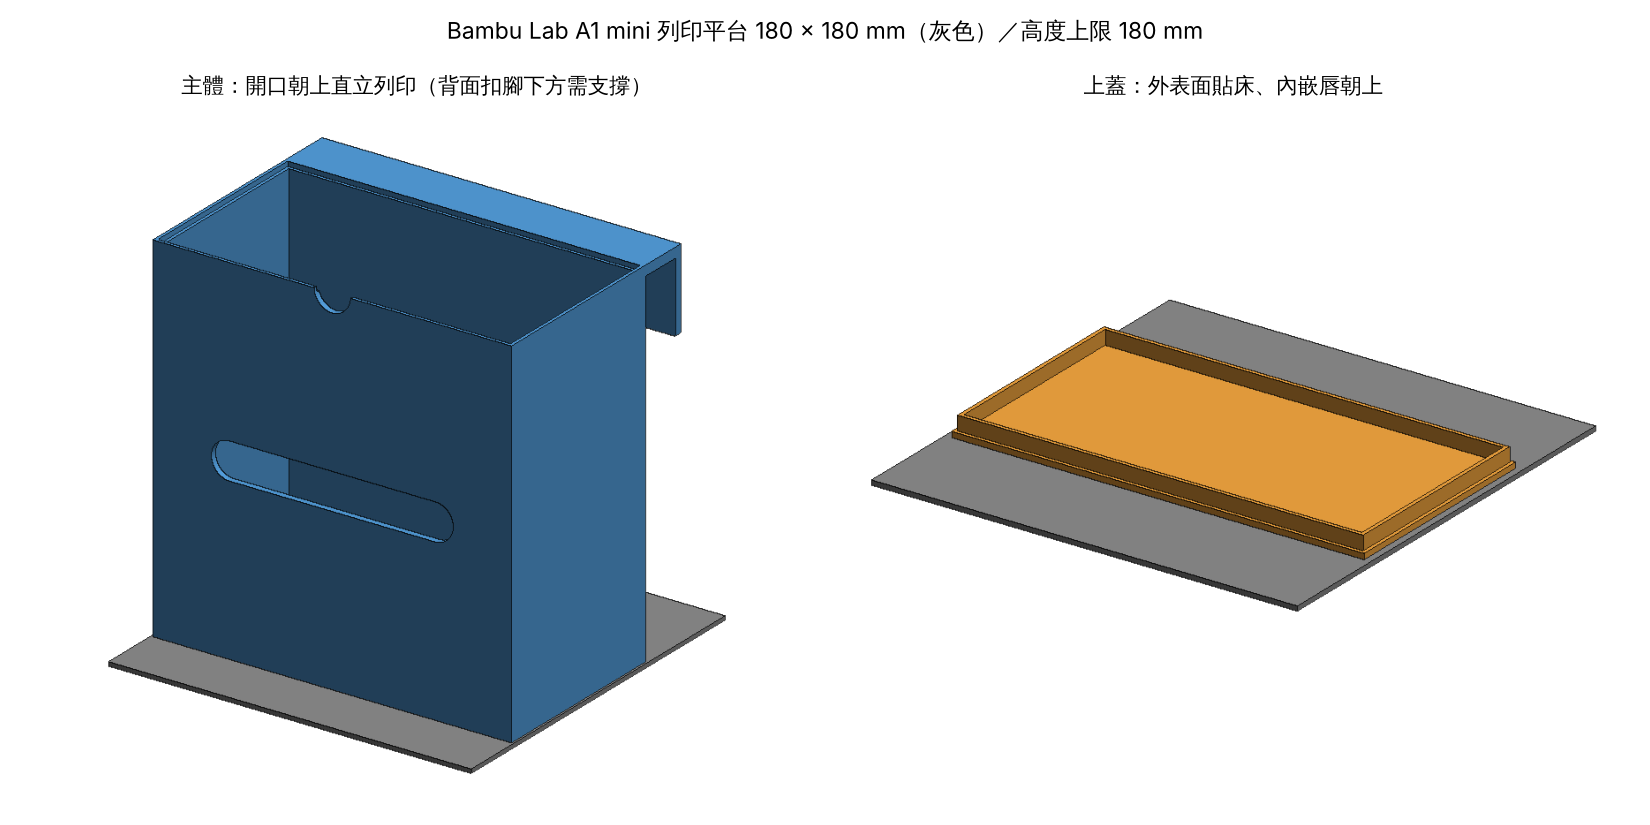
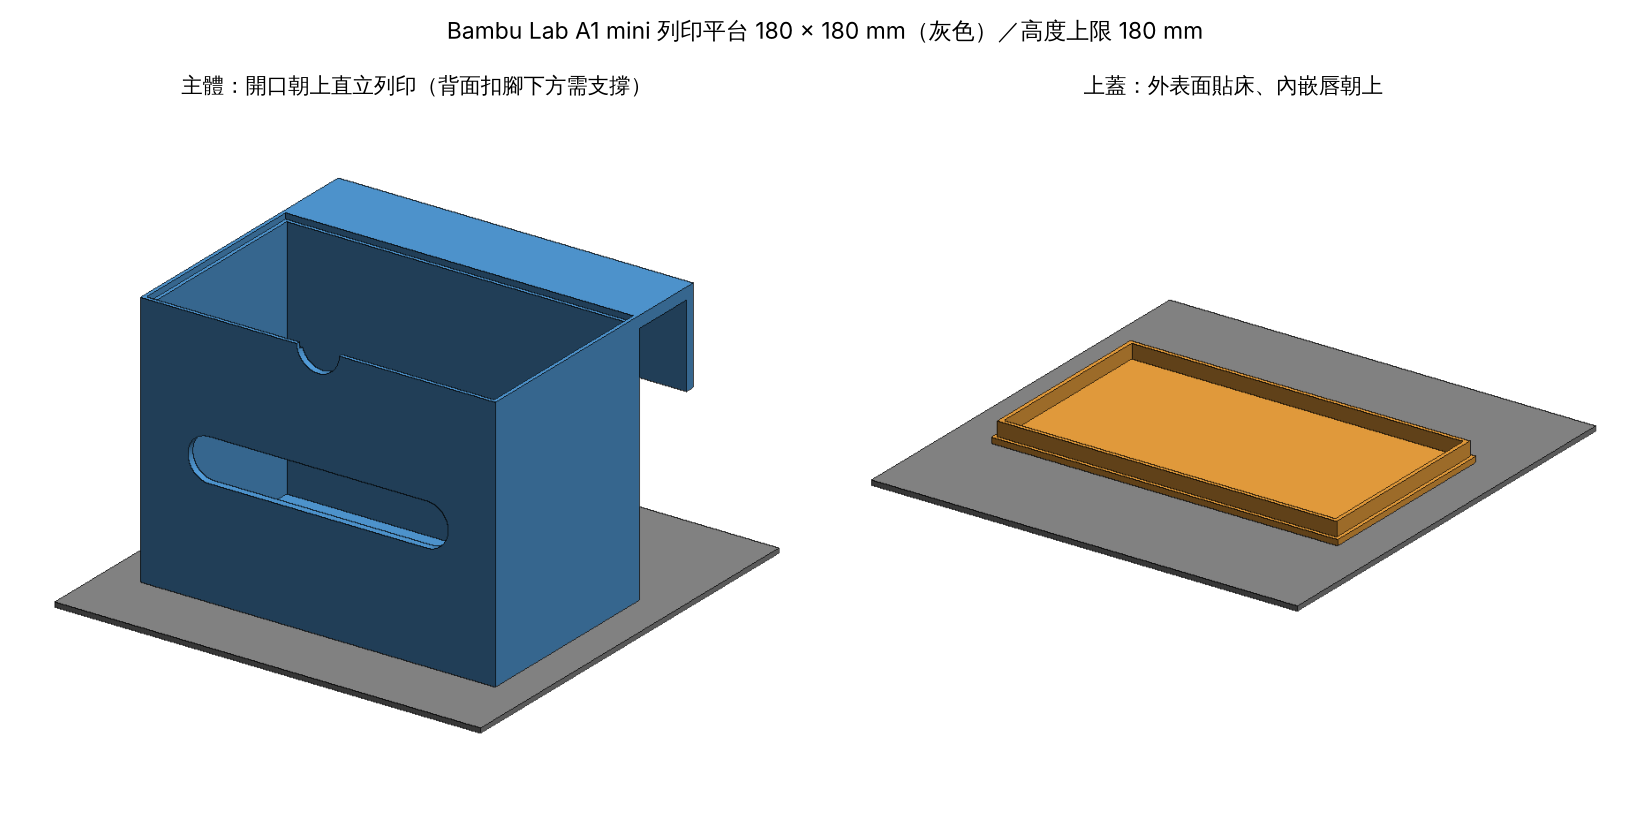
Size tissue box to measured tissue pack and 27.4 mm headboard
Box dimensions are now derived from the tissue pack (140 x 100 x 77 mm)
plus clearance; headboard slot is 28.4 mm.

Claude-Session: https://claude.ai/code/session_012FbViPA8fkn2R78cNFpsQg

Changed region(s): [[0.0309, 0.1515, 0.4636, 0.9394], [0.5564, 0.3939, 0.9273, 0.697], [0.1855, 0.4242, 0.2473, 0.4545]]

diff --git a/tissue_box/render.py b/tissue_box/render.py
@@ -51,31 +51,31 @@ z_top_cav = tb.H - tb.LID_T
 ax.add_patch(Rectangle((tb.WALL, tb.FLOOR), tb.DB - 2 * tb.WALL, z_top_cav - tb.FLOOR, fc="white", ec="k"))
 ax.add_patch(Rectangle((tb.WALL - tb.LEDGE, z_top_cav), tb.DB - 2 * (tb.WALL - tb.LEDGE), tb.LID_T, fc=LID_C, ec="k"))
 ax.add_patch(Rectangle((by0, -70), tb.BOARD_T, zt + 70, fc=BOARD_C, ec="k", alpha=0.85))
-ax.text(by0 + tb.BOARD_T / 2, 60, f"床頭板 {tb.BOARD_T:.0f} mm", ha="center", va="center", color="white", fontsize=11, rotation=90)
-ax.add_patch(Rectangle((tb.WALL + 1, tb.FLOOR + 3), 60, z_top_cav - tb.FLOOR - 8, fc="#f4f1e8", ec="#999", hatch="||"))
-ax.text(tb.WALL + 31, 120, "衛生紙\n(直立)", ha="center", va="center", fontsize=11)
+ax.text(by0 + tb.BOARD_T / 2, -20, f"床頭板 {tb.BOARD_T:.1f} mm", ha="center", va="center", color="white", fontsize=11, rotation=90)
+ax.add_patch(Rectangle((tb.WALL + tb.TISSUE_CLR / 2, tb.FLOOR), tb.TISSUE_H, tb.TISSUE_W, fc="#f4f1e8", ec="#999", hatch="||"))
+ax.text(tb.WALL + tb.TISSUE_CLR / 2 + tb.TISSUE_H / 2, tb.FLOOR + tb.TISSUE_W * 0.75, f"衛生紙(直立)\n{tb.TISSUE_L:.0f}×{tb.TISSUE_W:.0f}×{tb.TISSUE_H:.0f}", ha="center", va="center", fontsize=10, bbox=dict(fc="white", ec="none", alpha=0.8))
 zc = tb.SLOT_Z if tb.SLOT_Z is not None else (tb.FLOOR + z_top_cav) / 2
 ax.add_patch(Rectangle((-0.5, zc - tb.SLOT_W / 2), tb.WALL + 1, tb.SLOT_W, fc="red", ec="red"))
 ax.add_patch(FancyArrowPatch((5, zc), (-70, zc), arrowstyle="-|>", mutation_scale=25, color="red", lw=2.5))
-ax.text(-45, zc + 12, "抽取方向\n(朝床, 與床頭板垂直)", ha="center", color="red", fontsize=11)
+ax.text(-38, zc + 8, "抽取方向\n(朝床, 與床頭板垂直)", ha="center", color="red", fontsize=11)
 ax.axhline(zt, color="gray", ls=":", lw=1)
 ax.text(tb.D_TOTAL + 8, zt - 3, "床頭板頂端", va="top", fontsize=10, color="gray")
 ax.annotate("", (tb.D_TOTAL + 5, zt), (tb.D_TOTAL + 5, tb.H), arrowprops=dict(arrowstyle="<->", color="purple"))
 ax.text(tb.D_TOTAL + 8, tb.H + 2, f"只高出 {tb.TOP_T:.0f} mm", color="purple", fontsize=11)
-ax.annotate("", (-15, 0), (-15, zt), arrowprops=dict(arrowstyle="<->"))
-ax.text(-18, zt / 2 - 30, f"收納空間全在床頭板頂端以下\n盒高 {tb.H:.0f}（低於頂端 {zt:.0f}）", rotation=90, va="center", ha="right", fontsize=10)
+ax.annotate("", (-85, 0), (-85, zt), arrowprops=dict(arrowstyle="<->"))
+ax.text(-88, zt / 2, f"盒高 {tb.H:.1f}\n（頂端以下 {zt:.1f}）", rotation=90, va="center", ha="right", fontsize=10)
 ax.annotate("", (0, tb.H + 25), (tb.D_TOTAL, tb.H + 25), arrowprops=dict(arrowstyle="<->"))
-ax.text(tb.D_TOTAL / 2, tb.H + 28, f"總深 {tb.D_TOTAL:.0f} mm（盒 {tb.DB:.0f} + 夾槽 {tb.GAP:.0f} + 扣腳 {tb.BACK_T:.0f}）", ha="center")
+ax.text(tb.D_TOTAL / 2, tb.H + 28, f"總深 {tb.D_TOTAL:.1f}（盒 {tb.DB:.0f} + 夾槽 {tb.GAP:.1f} + 扣腳 {tb.BACK_T:.0f}）", ha="center")
 ax.add_patch(FancyArrowPatch((tb.DB / 2, tb.H + 60), (tb.DB / 2, tb.H + 6), arrowstyle="-|>", mutation_scale=20, color=LID_C, lw=2))
 ax.text(tb.DB / 2, tb.H + 63, "上蓋在頂部（與頂面齊平）", ha="center", fontsize=11)
-ax.text(-105, -60, "← 床 / 枕頭側", fontsize=12); ax.text(tb.D_TOTAL + 5, -60, "牆側 →", fontsize=12)
-ax.set_xlim(-110, 200); ax.set_ylim(-75, 260); ax.set_aspect("equal"); ax.axis("off")
-ax.set_title("側面剖面示意（寬 178 mm 沿床頭板方向）", fontsize=13)
+ax.text(-105, -65, "← 床 / 枕頭側", fontsize=12); ax.text(tb.D_TOTAL + 5, -65, "牆側 →", fontsize=12)
+ax.set_xlim(-125, 200); ax.set_ylim(-75, tb.H + 85); ax.set_aspect("equal"); ax.axis("off")
+ax.set_title(f"側面剖面示意（寬 {tb.W:.0f} mm 沿床頭板方向）", fontsize=13)
 fig.tight_layout(); fig.savefig(os.path.join(OUT, "preview_section.png"), dpi=130); plt.close(fig)
 
 # 3. 列印擺放 (A1 mini 180x180x180)
 bed = box_mesh(0, 0, -2, 180, 180, 0)
-b_p = body.copy(); b_p.apply_translation([1, (180 - tb.D_TOTAL) / 2, 0])
+b_p = body.copy(); b_p.apply_translation([(180 - tb.W) / 2, (180 - tb.D_TOTAL) / 2, 0])
 l_p = lid.copy(); l_p.apply_translation([(180 - l_p.extents[0]) / 2, (180 - l_p.extents[1]) / 2, 0])
 fig, axs = plt.subplots(1, 2, figsize=(15, 7.5))
 for ax, (m, c, t) in zip(axs, [(b_p, BOX_C, "主體：開口朝上直立列印（背面扣腳下方需支撐）"), (l_p, LID_C, "上蓋：外表面貼床、內嵌唇朝上")]):

diff --git a/tissue_box/tissue_box.py b/tissue_box/tissue_box.py
@@ -11,17 +11,18 @@ import trimesh
 from manifold3d import Manifold, CrossSection
 
 # ---------- 參數 (mm) ----------
-W = 178.0           # 外寬 (沿床頭板)
-H = 178.0           # 外高
-DB = 95.0           # 盒子外深 (不含跨板部分)
+TISSUE_L = 140.0    # 衛生紙長 (沿床頭板, 與抽取口同方向)
+TISSUE_W = 100.0    # 衛生紙寬 (直立後為高度)
+TISSUE_H = 77.0     # 衛生紙厚 (直立後為深度, 朝床方向)
+TISSUE_CLR = 4.0    # 衛生紙每個方向的總餘隙 (方便放入)
 WALL = 3.0          # 壁厚
 FLOOR = 2.4         # 底厚
-BOARD_T = 20.0      # 床頭板厚度 (之後可調)
+BOARD_T = 27.4      # 床頭板厚度
 BOARD_CLR = 1.0     # 床頭板夾槽餘隙
 TOP_T = 5.0         # 跨在床頭板頂端的橫樑厚度 (= 高出床頭板的高度)
 BACK_LEG = 40.0     # 背面扣腳往下的長度
 BACK_T = 4.0        # 背面扣腳厚度
-SLOT_L = 120.0      # 抽取口長度
+SLOT_L = 110.0      # 抽取口長度
 SLOT_W = 18.0       # 抽取口寬度
 SLOT_Z = None       # 抽取口中心高度 (None = 收納空間正中央)
 LID_T = 2.4         # 上蓋厚 (與頂面齊平)
@@ -31,6 +32,9 @@ LIP_H = 6.0         # 上蓋內嵌唇深度
 LID_CLR = 0.3       # 上蓋配合間隙
 NOTCH_R = 9.0       # 前緣掀蓋手指缺口半徑
 
+W = TISSUE_L + TISSUE_CLR + 2 * WALL           # 外寬 (沿床頭板)
+DB = TISSUE_H + TISSUE_CLR + 2 * WALL          # 盒子外深 (不含跨板部分)
+H = FLOOR + TISSUE_W + TISSUE_CLR + LID_T      # 外高
 GAP = BOARD_T + BOARD_CLR
 D_TOTAL = DB + GAP + BACK_T
 OUT = os.path.join(os.path.dirname(os.path.abspath(__file__)), "..", "output")
